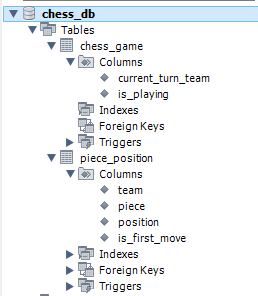
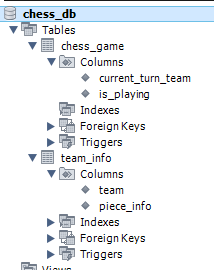
docs(README): 리팩토링 중점 사안, DB 테이블 구조 업데이트

Changed region(s): [[0.0, 0.0, 1.0, 1.0]]

diff --git a/README.md b/README.md
@@ -43,6 +43,10 @@
 - [x] 특정 기물을 위한 메서드가 불 필요한 기물들에게까지 노출되는 것 리팩토링
     - [x] 특별 행마가 필요한 기물들에 대해 이동 가능한지 isMovable에서 조건 검사
     - [x] chessGame에서 특별 행마의 경우 처리해 줘야할 로직(캐슬링-룩의 이동, 프로모션-폰을 퀸으로)을 처리해줌
+- [x] Controller, Service, DAO는 stateless 하게 만들어 볼 것
+- [x] HTTP 상태코드를 명확히 명시해 줄 것
+    - [x] Enum으로 HTTP 상태코드를 관리해 볼 것
+- [x] JDBC API 자원들을 완벽히 반환할 것
 
 ## 웹 UI 적용 사안
 - [x] GET 요청이 들어오면, 초기 기물 위치를 가진 체스판을 띄워준다
@@ -67,13 +71,19 @@
 
 ## DB 테이블 구조
 ![table_structure](./img/table_structure.PNG)
-- __chess_game__
-    - current_turn_team : VARCHAR(5) NOT NULL,
-    - is_playing : boolean NOT NULL
-- __piece_position__
-    - team : VARCHAR(5) NOT NULL,     
-    - piece : VARCHAR(6) NOT NULL,     
-    - position : VARCHAR(2) NOT NULL,     
-    - is_first_move : boolean NOT NULL 
-    - primary key (position)
-        
+```sql
+CREATE DATABASE chess_db;
+
+USE chess_db;
+
+CREATE TABLE chess_game (
+    current_turn_team VARCHAR(5) NOT NULL,
+    is_playing boolean NOT NULL
+);
+
+CREATE TABLE team_info (
+    team VARCHAR(5) NOT NULL,
+    piece_info VARCHAR(400) NOT NULL,
+    primary key (team)
+);
+```       
